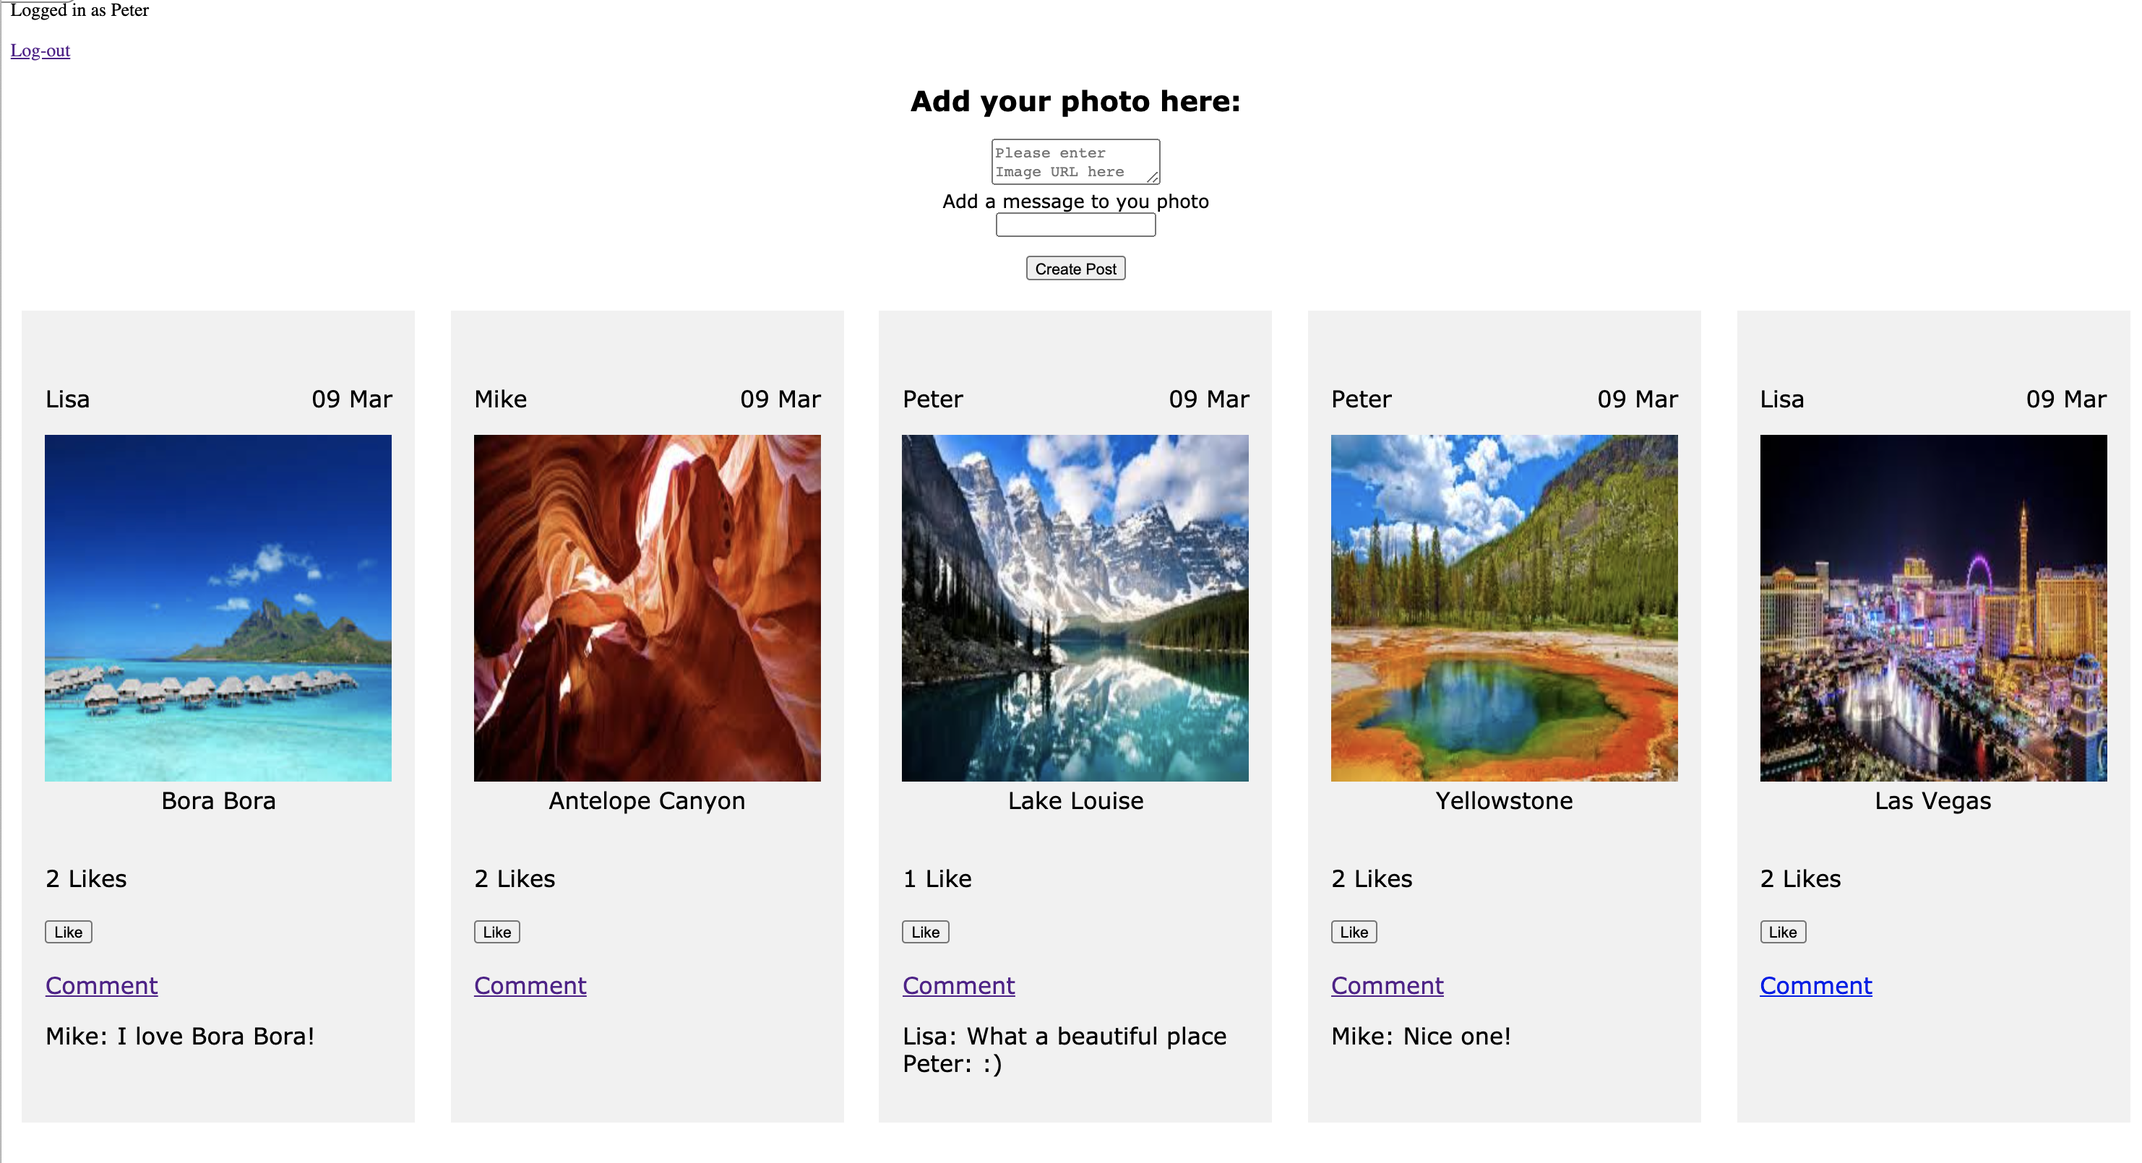
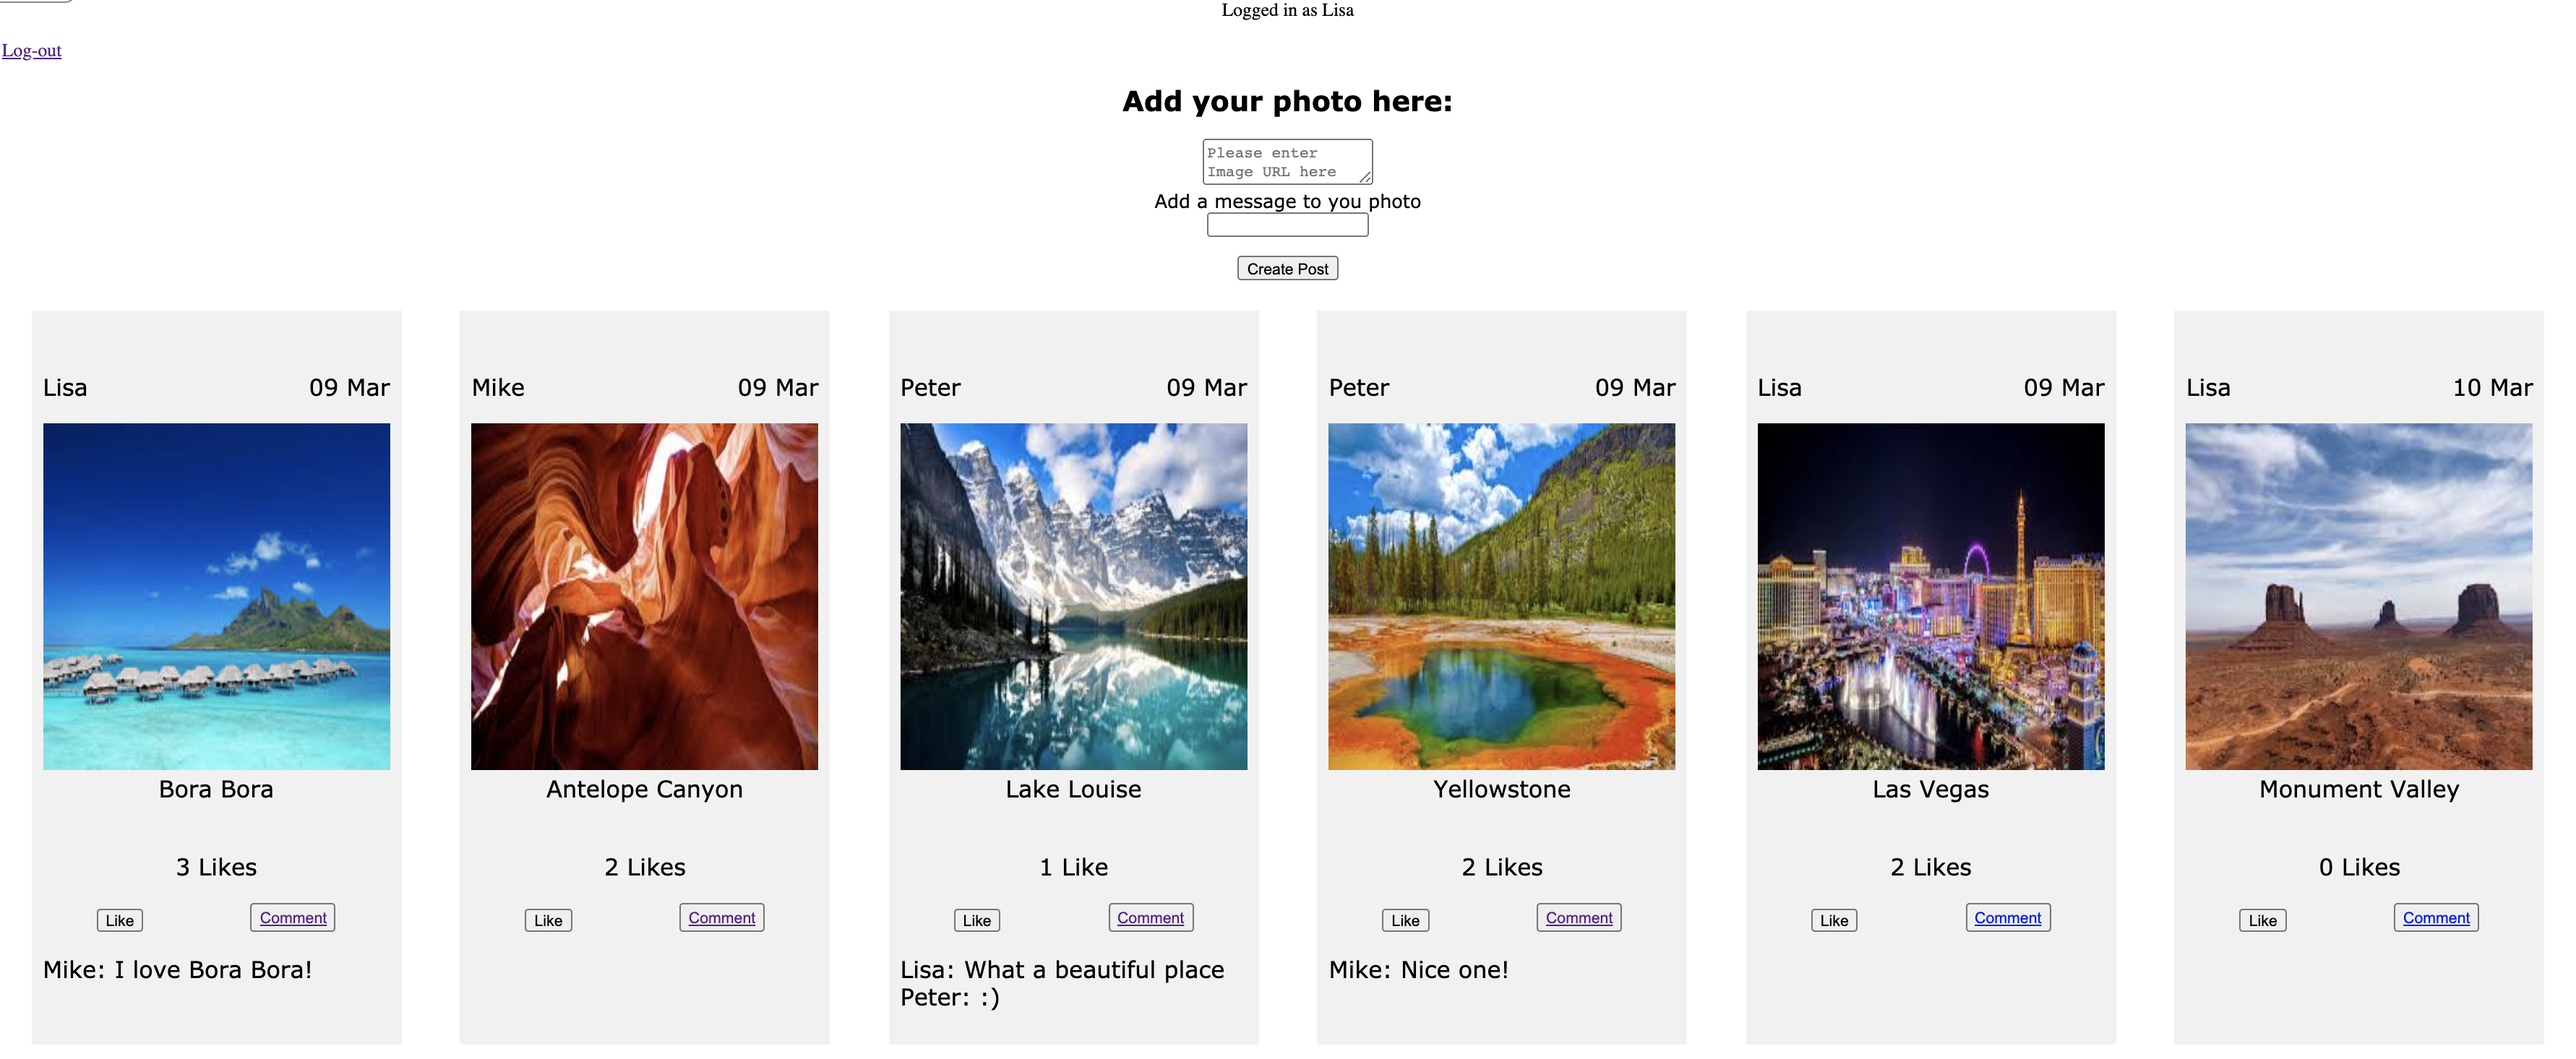
Update README and style

diff --git a/app/assets/stylesheets/application.css b/app/assets/stylesheets/application.css
@@ -83,3 +83,7 @@
     justify-content: space-around;
     flex-wrap:  wrap ;
 }
+
+.likes {
+    text-align: center;     
+}
